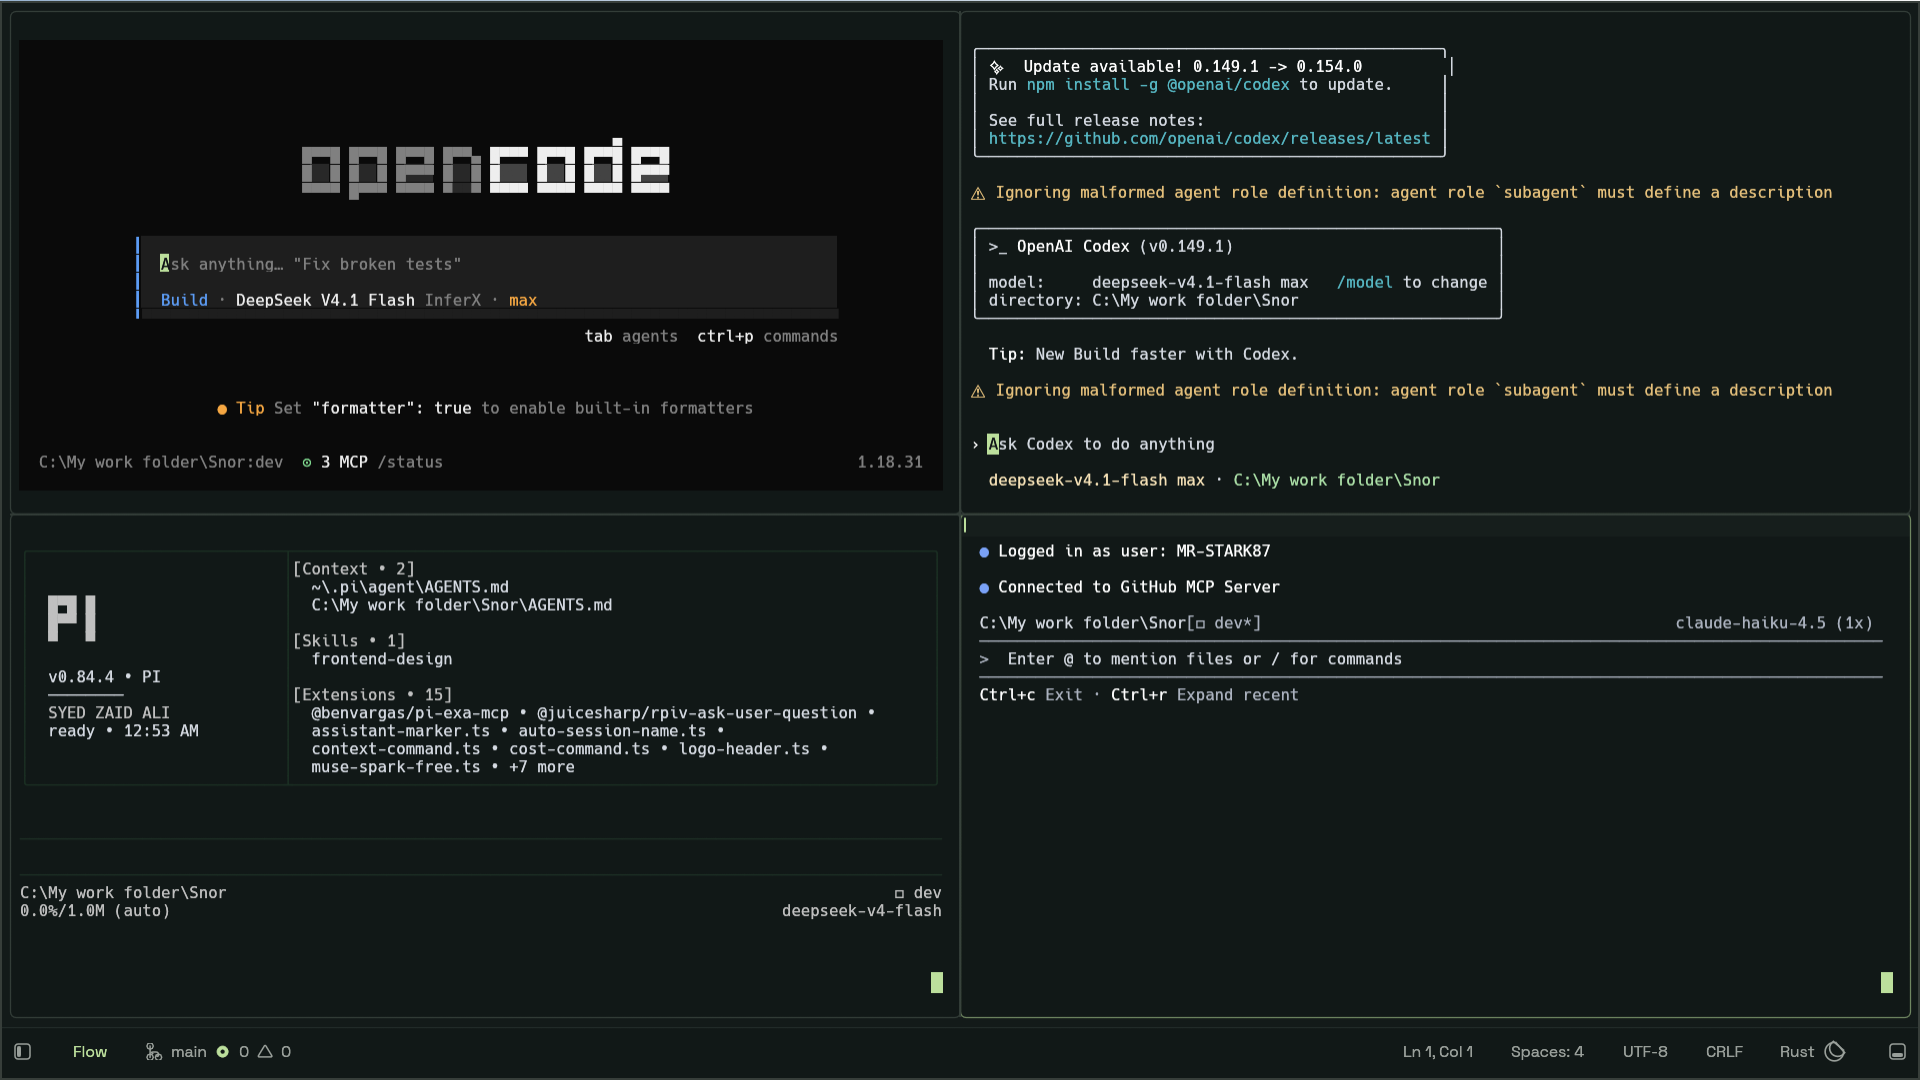
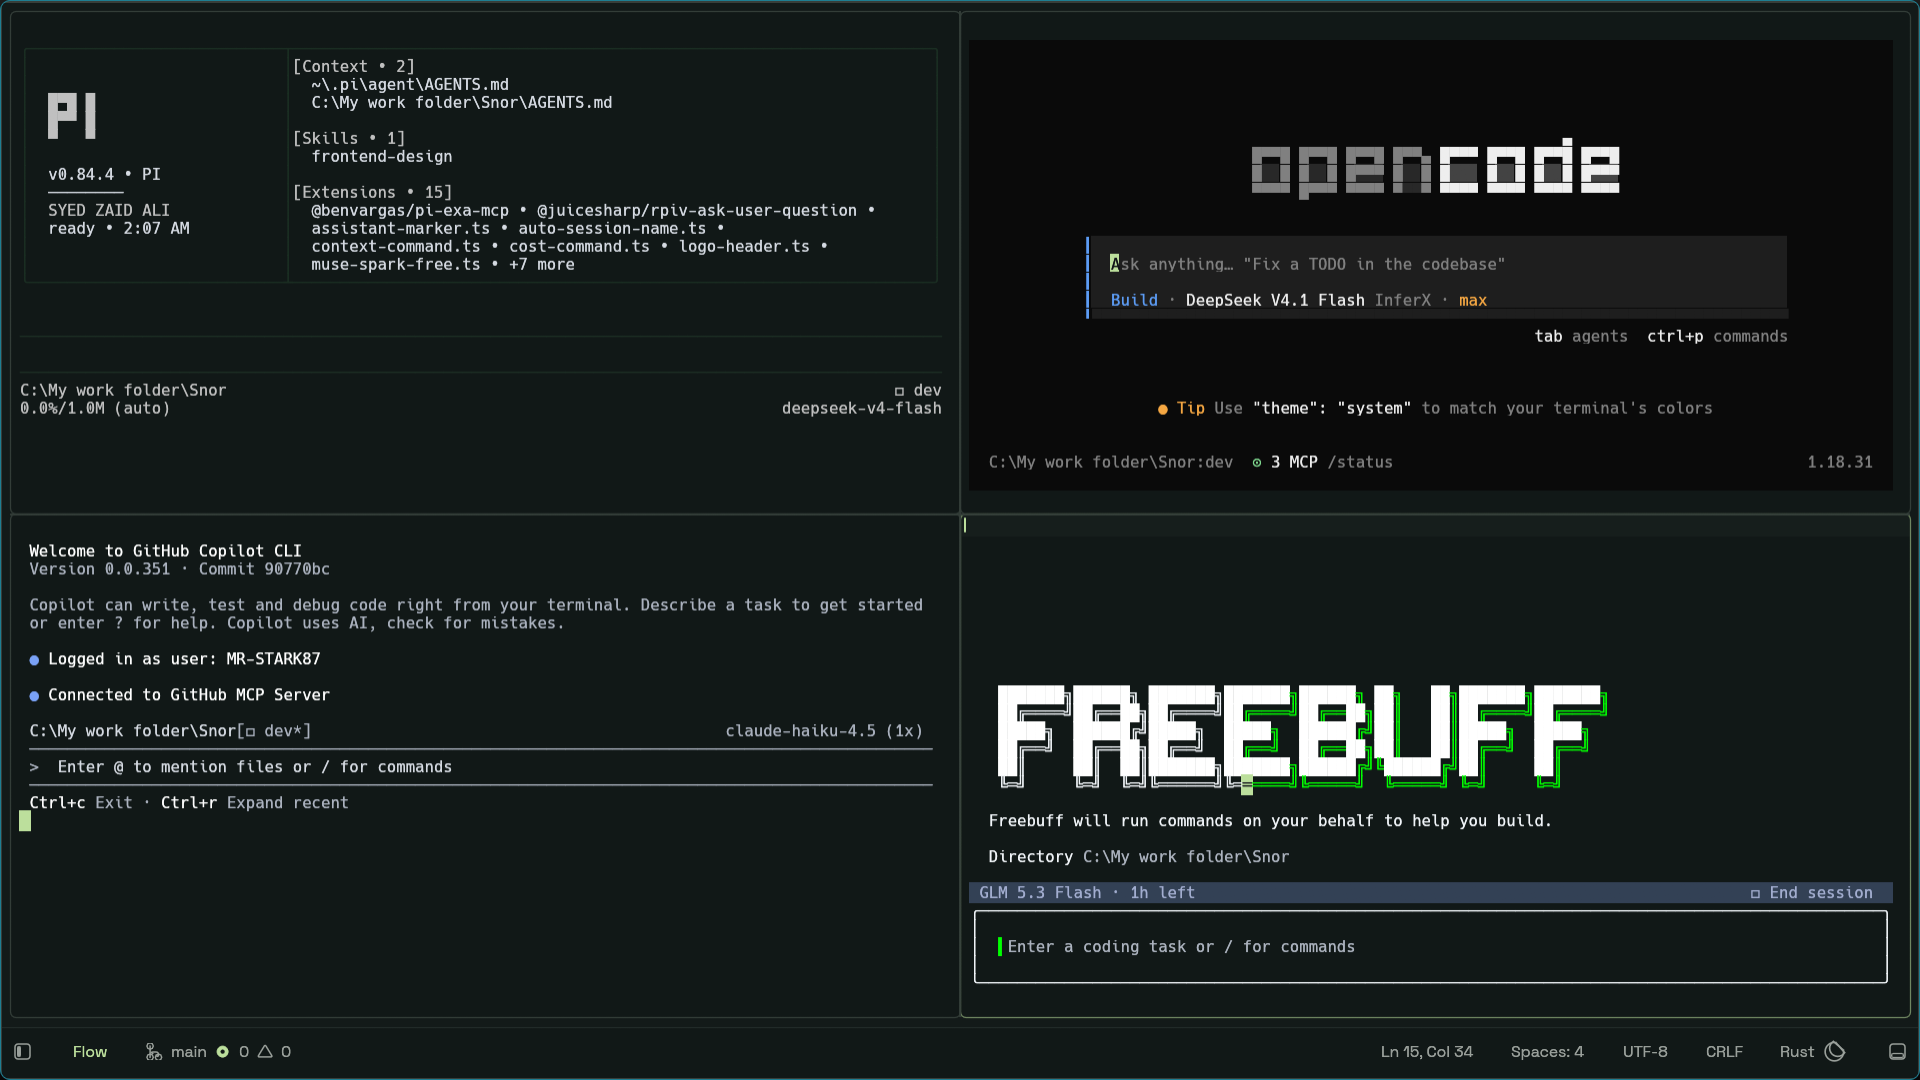
docs: wire editor, memory and dim screenshots into README
editor.png backs the editor section, memory.png demonstrates the trimming methodology (94.7 resident vs 155.8 peak / 147.3 commit), dim.png shows the overlay card and status indicator. flow.png updated to the four-agent retake. memory.png cropped of the OS taskbar only; evidence pixels untouched.

diff --git a/README.md b/README.md
@@ -69,6 +69,14 @@ Flow Mode — four agents supervised side by side:
 
 ![Flow Mode: four live terminal panes](docs/screenshots/flow.png)
 
+The editor up close — badge tabs, gutter, tree-sitter highlighting:
+
+![Editor: highlighted Rust with line-number gutter](docs/screenshots/editor.png)
+
+Dim Mode — backlight at 10%, overlay card and status-bar moon showing:
+
+![Dim Mode: overlay card and status-bar indicator](docs/screenshots/dim.png)
+
 ## Quickstart
 
 Prerequisites: Windows 10/11 and a stable Rust toolchain
@@ -113,6 +121,13 @@ number that stays put.
 | V1 debug / release | ~306–313 MB / ~331 MB, 17 MB exe |
 | V1.1 (glow + strip + thin LTO) | ~173 MB / ~167 MB, 12.5 MB exe |
 | Now | ~155 MB peak, ~147 MB commit, ~11 MB exe |
+
+The trimming phenomenon, caught live: 94.7 MB resident *after* Windows
+trimmed the backgrounded window — while peak sits at 155.8 and commit at
+147.3. Same process, three numbers, which is why this section leads with
+methodology instead of a single figure:
+
+![Measured: 94.7 MB resident beside the running window](docs/screenshots/memory.png)
 
 Reproduce it any time:
 
